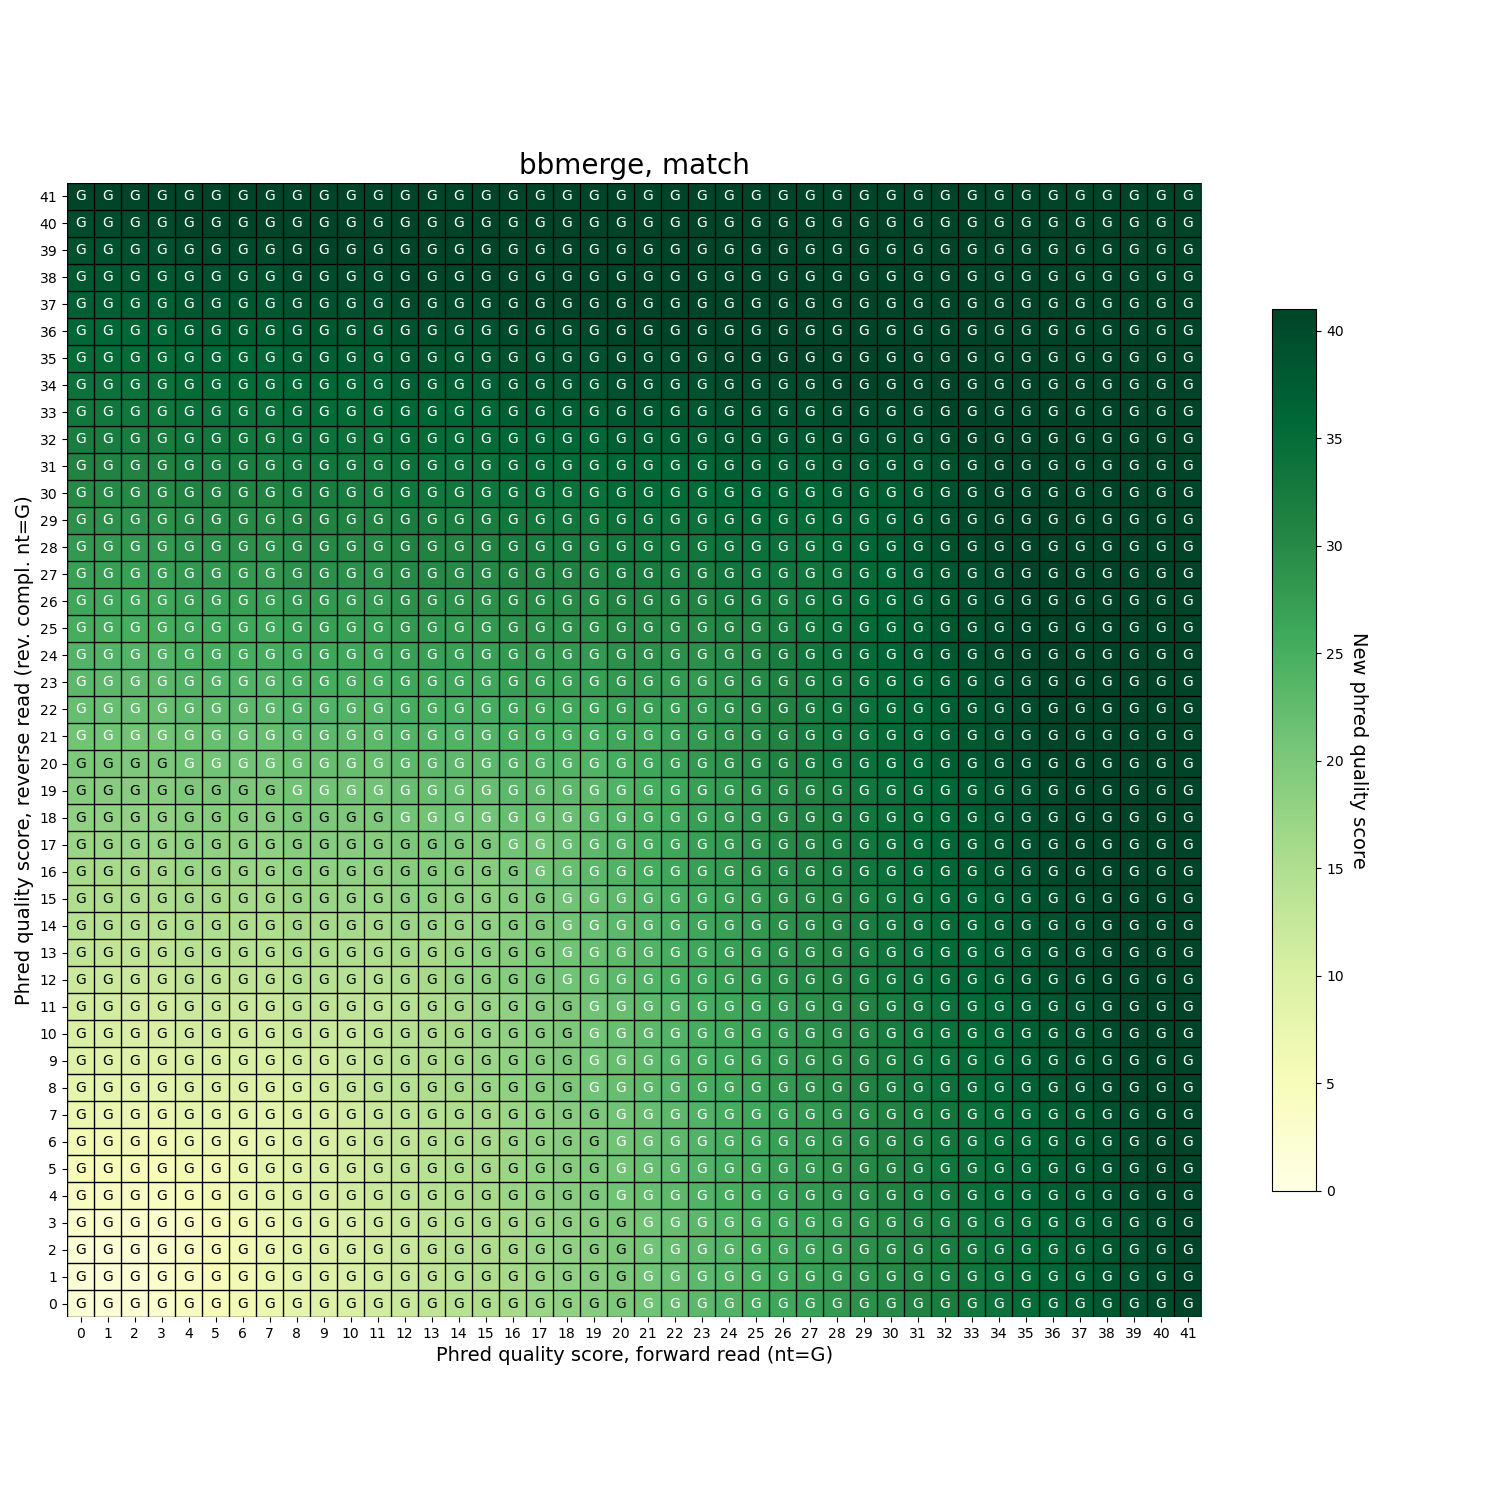
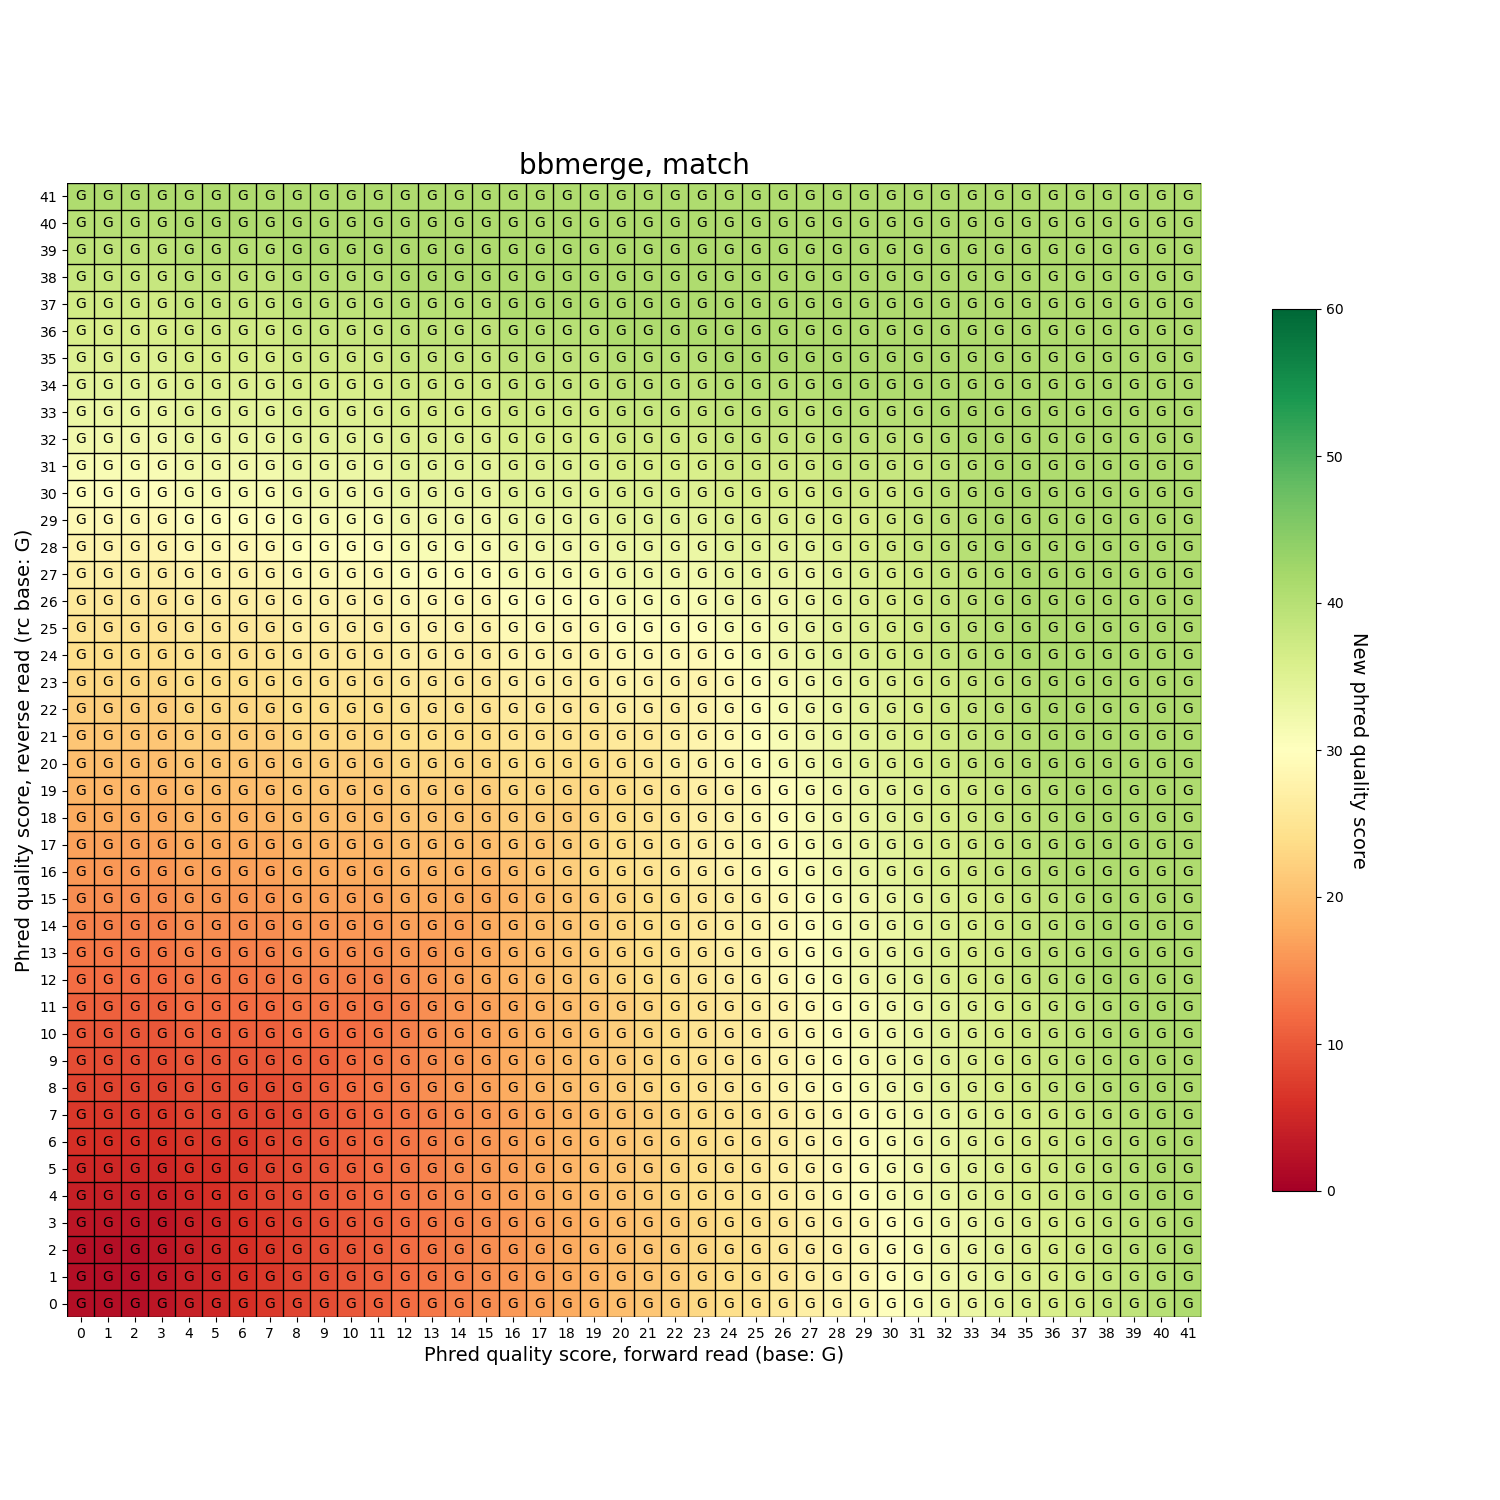
other colorsheme

diff --git a/merge_phred/plot.py b/merge_phred/plot.py
@@ -179,8 +179,8 @@ def create_plots(df_type, program, match_type, max_new_qs, outdir):
     nt1 = list(df_type["nt1"])[0]
     nt2 = list(df_type["nt2"])[0]
     ax.set_title(f"{program}, {match_type}", fontsize=20)
-    ax.set_xlabel(f"Phred quality score, forward read (nt={nt1})", fontsize=14)
-    ax.set_ylabel(f"Phred quality score, reverse read (rev. compl. nt={nt2})",
+    ax.set_xlabel(f"Phred quality score, forward read (base: {nt1})", fontsize=14)
+    ax.set_ylabel(f"Phred quality score, reverse read (rc base: {nt2})",
                 fontsize=14)
 
     # Add the new nucletide as annotation
